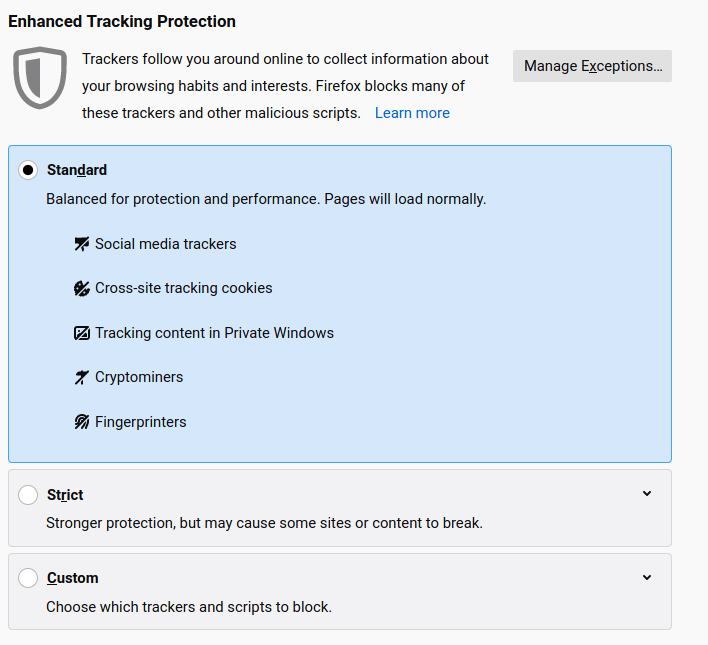
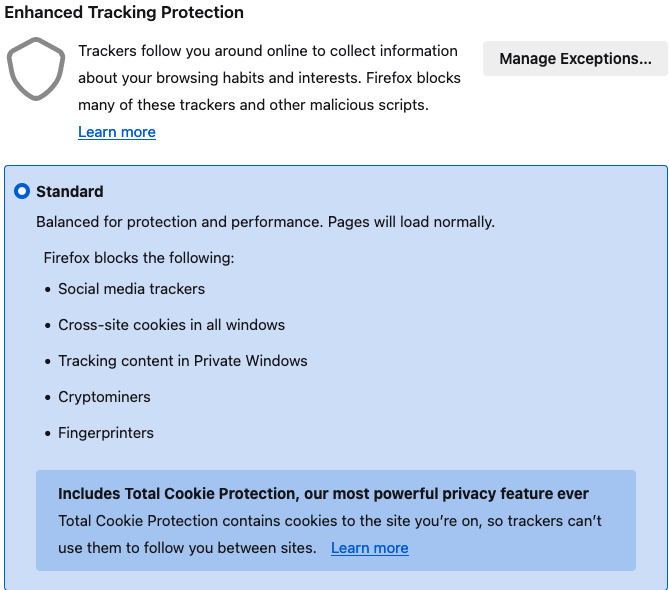
Firefox settings

diff --git a/guide-steps/en/firefox-adjusting-settings-enhance-your-online-privacy.md b/guide-steps/en/firefox-adjusting-settings-enhance-your-online-privacy.md
@@ -2,7 +2,7 @@
 Adjusting Firefox settings to enhance your online privacy
 
 # Summary #
-'Firefox provides you with several mechanisms to protect your privacy. However, some of them are not enabled by default. In this guide you'll learn how to configure your Firefox browser settings to strengthen your online privacy.
+Firefox provides you with several mechanisms to protect your privacy. However, some of them are not enabled by default. In this guide you'll learn how to configure your Firefox browser settings to strengthen your online privacy.
 
 # Body #
 
@@ -16,8 +16,8 @@ Content blocking should be enabled by default on your Firefox installation. If n
 
 ![Fig. 2: Firefox Tracking Protection settings](../../images/Firefox/settings-tracking.png?raw=true)
 
-#### Enable Do Not Track ####
-When browsing the web, your browser may warn websites that you do not want to be tracked. Beware that not all websites respect this! For safer protection, please see [our guide on installing an ad-blocker](firefox-ublock-origin.md). Still, it's better to have this option turned on. Scroll down until you see the **Send websites a "Do Not Track" signal that you don't want to be tracked** and then click on **Always** (Fig. 3).
+#### Ask websites to respect your privacy ####
+When browsing the web, your browser may warn websites that you [do not want to be tracked](1). Beware that not all websites respect this! For safer protection, please see [our guide on installing an ad-blocker](firefox-ublock-origin.md). Still, it's better to have these options turned on. Scroll down until you see the **Web Site Privacy Preferences** (Fig. 3).
 
 ![Fig. 3: Firefox Do Not Track setting](../../images/Firefox/settings-dnt.png?raw=true)
 
@@ -37,20 +37,16 @@ Table 1 shows some of the advanced settings you can change to better protect you
 
 ![Fig. 6: Set an advanced Firefox setting](../../images/Firefox/settings-config-change.png?raw=true)
 
-| Setting                                             | Value   | Why                                                                                               |
-| :--                                                 | :--     | :--                                                                                               |
-| `media.navigator.enabled`                           | `false` | Prevent websites from checking the status of your microphone and camera                           |
-| `privacy.firstparty.isolate`                        | `true`  | Isolate first party domain cookies to reduce tracking across multiple websites                    |
-| `privacy.trackingprotection.cryptomining.enabled`   | `true`  | Prevent websites from running crypto miners in your browser                                       |
-| `privacy.trackingprotection.fingerprinting.enabled` | `true`  | Attempt to reduce your online fingerprint                                                         |
-| `geo.enabled`                                       | `false` | Disable location services, since they go through Google's servers                                 |
-| `network.prefetch-next`                             | `false` | Disable pre-fetching of webpages as this can pose a privacy risk                                  |
-| `network.websocket.enabled`                         | `false` | If you use a VPN, the use of WebSockets can leak your real IP address                             |
-| `dom.event.clipboardevents.enabled`                 | `false` | Prevent websites from getting a notification when you copy, cut, or paste something from the page |
-| `media.peerconnection.enabled`                      | `false` | If you use a VPN, the use of WebRTC can leak your real IP address                                 |
-| `dom.battery.enabled`                               | `false` | Prevent websites from reading your battery level                                                  |
-| `browser.send_pings`                                | `false` | Prevent website from tracking your clicks on pages                                                |
-| `browser.send_pings.require_same_host`              | `true`  | Allow click-tracking if send and receiving host match                                             |
-| `extensions.pocket.enabled`                         | `false` | Disable Pocket integration                                                                        |
+| Setting                                | Value   | Why  |
+| :--                                    | :--     | :--  |
+| `media.navigator.enabled`              | `false` | Prevent websites from checking the status of your microphone and camera |                    
+| `geo.enabled`                          | `false` | Disable location services, since they go through Google's servers |
+| `network.prefetch-next`                | `false` | Disable pre-fetching of webpages as this can pose a privacy risk |
+| `media.peerconnection.enabled`         | `false` | If you use a VPN, the use of WebRTC can leak your real IP address |
+| `dom.battery.enabled`                  | `false` | Prevent websites from reading your battery level |
+| `browser.send_pings.require_same_host` | `true`  | Allow click-tracking if send and receiving host match |
+| `extensions.pocket.enabled`            | `false` | Disable Pocket integration |
 
-Table 1: Recommend settings to harden your browser privacy
+Table 1: Recommended settings to harden your browser privacy
+
+[1]: https://en.wikipedia.org/wiki/Do_Not_Track
